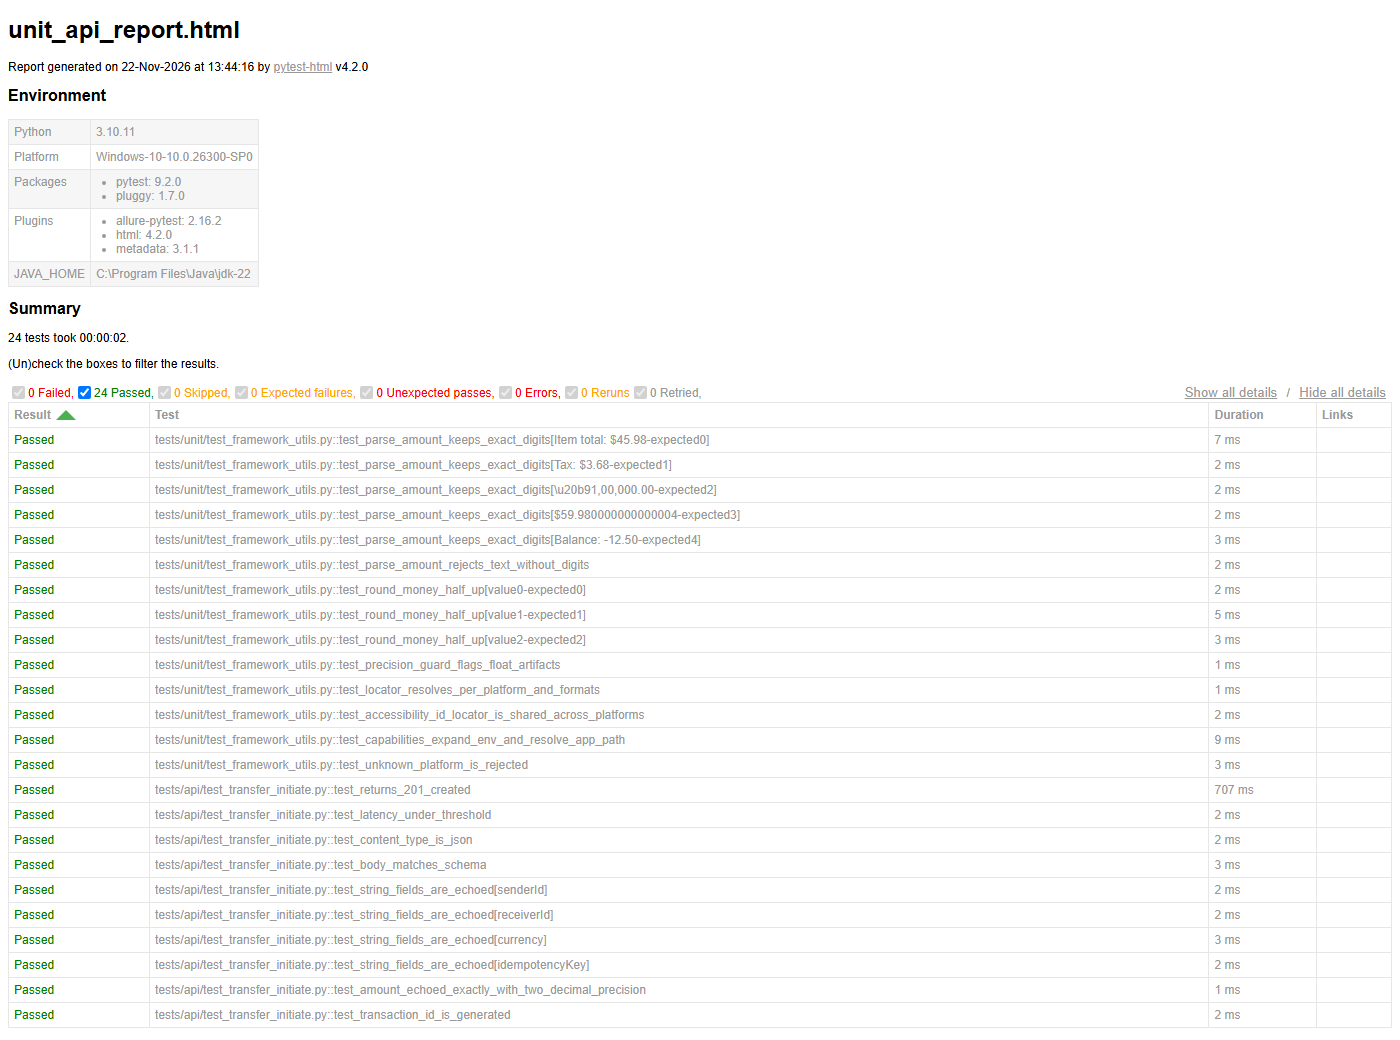
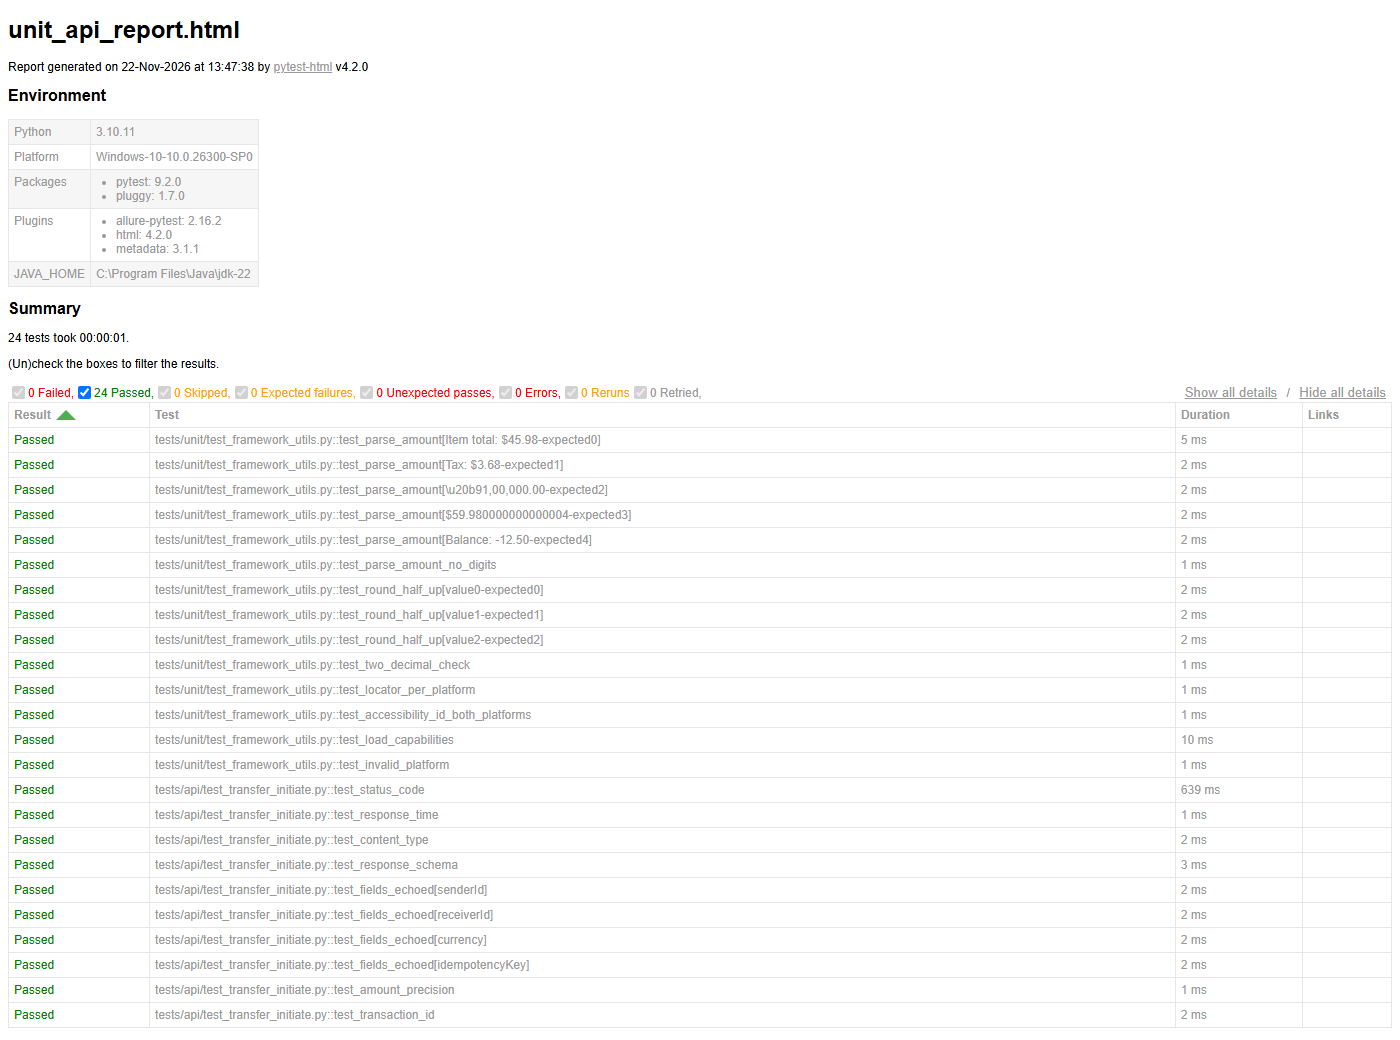
Simplify comments and docstrings

Changed region(s): [[0.2457, 0.4, 0.5221, 0.9846], [0.8293, 0.3692, 0.8907, 0.9846]]

diff --git a/tests/api/test_transfer_initiate.py b/tests/api/test_transfer_initiate.py
@@ -1,8 +1,6 @@
-"""Contract checks for transfer initiation against the public mock endpoint.
+"""API tests for transfer initiate (jsonplaceholder mock).
 
-jsonplaceholder echoes the posted body and adds an integer "id", which stands in for
-the server-generated transaction id. The response body is parsed with Decimal so the
-amount is compared exactly, never as a float.
+The mock returns the request body plus an "id", used here as the transaction id.
 """
 from __future__ import annotations
 
@@ -18,7 +16,7 @@ pytestmark = pytest.mark.api
 
 
 def to_json(payload: dict) -> str:
-    """Serialise Decimal amounts as JSON numbers, refusing any value a float would distort."""
+    """Convert to JSON, Decimal amounts are sent as numbers."""
 
     def encode_decimal(value):
         if isinstance(value, Decimal):
@@ -34,8 +32,7 @@ def to_json(payload: dict) -> str:
 @pytest.fixture(scope="module")
 def response(session, base_url, transfer_data):
     url = f"{base_url}{transfer_data['endpoint']}"
-    # Warm-up: open the keep-alive connection first so the timed POST below measures API
-    # latency, not one-off DNS + TCP + TLS setup (often 300 ms+ on its own).
+    # warm up the connection so response time doesn't include DNS/TLS setup
     session.get(f"{base_url}/posts/1", timeout=10)
     response = session.post(url, data=to_json(transfer_data["transfer_request"]), timeout=10)
     return response
@@ -61,7 +58,7 @@ def test_content_type(response):
 
 
 def test_response_schema(response, schema):
-    body = response.json()  # jsonschema needs native numbers
+    body = response.json()  # jsonschema needs normal numbers
     errors = sorted(Draft202012Validator(schema).iter_errors(body), key=lambda e: e.path)
     assert not errors, "\n".join(f"{list(e.path)}: {e.message}" for e in errors)
 

diff --git a/framework/gestures.py b/framework/gestures.py
@@ -1,8 +1,4 @@
-"""Touch gestures built on W3C pointer actions, which both UiAutomator2 and XCUITest support.
-
-Using W3C actions (instead of mobile: scroll or UiScrollable) keeps one implementation
-for both platforms.
-"""
+"""Swipe/scroll helpers using W3C actions, so the same code works on Android and iOS."""
 from __future__ import annotations
 
 from selenium.common.exceptions import NoSuchElementException
@@ -32,7 +28,7 @@ class Gestures:
         actions.perform()
 
     def swipe_up(self) -> None:
-        """Finger moves up, content scrolls down (reveals items lower in the list)."""
+        """Scrolls the list down."""
         size = self.driver.get_window_size()
         x = size["width"] // 2
         self.swipe(x, int(size["height"] * 0.75), x, int(size["height"] * 0.30))
@@ -43,11 +39,10 @@ class Gestures:
         self.swipe(x, int(size["height"] * 0.30), x, int(size["height"] * 0.75))
 
     def swipe_until_visible(self, target: Locator, list_items: Locator | None = None) -> None:
-        """Swipe up until target is on screen.
+        """Keep swiping until target is visible.
 
-        Stops early and fails if a swipe no longer changes what is visible, which means
-        we hit the end of the list. list_items is any locator whose texts change as
-        the list scrolls (for example item titles); without it we compare page source.
+        Stops when the visible items stop changing (end of list). If list_items is
+        not given, page source is compared instead.
         """
         last_seen = None
         for _ in range(self.max_swipes):

diff --git a/conftest.py b/conftest.py
@@ -1,4 +1,4 @@
-"""Project-wide pytest hooks: CLI options and failure artefacts (screenshot + page source)."""
+"""Global pytest hooks: --platform option and screenshot on failure."""
 from __future__ import annotations
 
 import re
@@ -30,7 +30,7 @@ def pytest_runtest_makereport(item, call):
     outcome = yield
     report = outcome.get_result()
 
-    # Capture on failures in setup or the test body, but only for tests that own a driver.
+    # only for failed UI tests (they have a driver)
     if report.when not in ("setup", "call") or not report.failed:
         return
     driver = item.funcargs.get("driver") if hasattr(item, "funcargs") else None
@@ -46,7 +46,7 @@ def pytest_runtest_makereport(item, call):
     try:
         driver.save_screenshot(str(png_path))
         xml_path.write_text(driver.page_source, encoding="utf-8")
-    except Exception as exc:  # the session may already be dead; never mask the real failure
+    except Exception as exc:  # session might be gone already, don't hide the real error
         report.sections.append(("failure artefacts", f"Could not capture artefacts: {exc}"))
         return
 

diff --git a/pages/base_page.py b/pages/base_page.py
@@ -1,7 +1,4 @@
-"""Base class for all screens. Holds the driver, waits and gestures, and the small set of
-element interactions every page needs. Page objects never assert; they return state
-and the tests decide what is correct.
-"""
+"""Common actions for all pages. No asserts in page objects, only in tests."""
 from __future__ import annotations
 
 from framework.config import Settings
@@ -19,7 +16,6 @@ class BasePage:
         self.waits = Waits(driver, settings.platform, settings.wait_timeout)
         self.gestures = Gestures(driver, self.waits, settings.max_swipes)
 
-    # ---- screen state -------------------------------------------------------------
     def wait_for_page(self):
         if self.SCREEN is not None:
             self.waits.wait_for_visible(self.SCREEN)
@@ -28,7 +24,6 @@ class BasePage:
     def is_displayed(self) -> bool:
         return self.SCREEN is not None and self.waits.is_visible(self.SCREEN)
 
-    # ---- element actions ----------------------------------------------------------
     def click(self, locator: Locator) -> None:
         self.waits.wait_for_clickable(locator).click()
 

diff --git a/framework/locator.py b/framework/locator.py
@@ -1,10 +1,4 @@
-"""Cross-platform locator definition.
-
-A Locator holds one strategy per platform. Page objects declare locators once and the
-correct strategy is resolved at runtime from the active platform, so the same page
-class serves Android and iOS. Templated values (for example a product name) are filled
-with Locator.format(...).
-"""
+"""Locator with an Android and an iOS strategy. Use format() to fill {placeholders}."""
 from __future__ import annotations
 
 from dataclasses import dataclass
@@ -23,11 +17,7 @@ class Locator:
 
     @classmethod
     def accessibility_id(cls, value: str, description: str = "") -> "Locator":
-        """Use when the app exposes the same accessibility id on both platforms.
-
-        The demo app sets accessibilityLabel on Android and testID on iOS to the same
-        value, which Appium maps to the accessibility id strategy on both.
-        """
+        """Same accessibility id on both platforms."""
         strategy = (AppiumBy.ACCESSIBILITY_ID, value)
         return cls(android=strategy, ios=strategy, description=description or value)
 

diff --git a/framework/config.py b/framework/config.py
@@ -1,4 +1,4 @@
-"""Runtime settings. Everything environment-specific is read here and nowhere else."""
+"""Settings and capabilities, read from env vars and config/capabilities.yaml."""
 from __future__ import annotations
 
 import os
@@ -17,7 +17,7 @@ ENV_VAR_REGEX = re.compile(r"\$\{(?P<name>[A-Z0-9_]+)(?::-(?P<default>[^}]*))?\}
 
 
 def _expand_env_vars(value):
-    """Expand ${VAR} and ${VAR:-default} inside YAML string values."""
+    """Replace ${VAR} / ${VAR:-default} with env values."""
     if not isinstance(value, str):
         return value
 
@@ -60,7 +60,7 @@ def load_capabilities(platform: str) -> dict:
         caps_by_platform = yaml.safe_load(f)
     caps = {key: _expand_env_vars(val) for key, val in caps_by_platform[platform].items()}
 
-    # Resolve a relative app path against the project root so tests run from any cwd.
+    # make relative app path absolute
     app = caps.get("appium:app")
     if app and not app.startswith(("http://", "https://", "/", "storage:", "sauce-storage:")):
         caps["appium:app"] = str((PROJECT_ROOT / app).resolve())

diff --git a/framework/driver_factory.py b/framework/driver_factory.py
@@ -1,8 +1,4 @@
-"""Creates an Appium session for the requested platform.
-
-Tests and page objects never import platform-specific option classes. They ask the
-factory for a driver, and the factory picks UiAutomator2 or XCUITest from the settings.
-"""
+"""Starts the Appium driver for Android (UiAutomator2) or iOS (XCUITest)."""
 from __future__ import annotations
 
 import logging
@@ -26,7 +22,6 @@ def create_driver(settings: Settings) -> webdriver.Remote:
     options = PLATFORM_OPTIONS[settings.platform]().load_capabilities(caps)
     logger.info("Starting %s session on %s", settings.platform, settings.appium_server_url)
     driver = webdriver.Remote(settings.appium_server_url, options=options)
-    # Implicit waits are disabled on purpose: mixing them with explicit waits makes
-    # timeouts unpredictable. All synchronisation goes through framework.waits.
+    # no implicit wait, we only use explicit waits (framework/waits.py)
     driver.implicitly_wait(0)
     return driver

diff --git a/framework/money.py b/framework/money.py
@@ -1,9 +1,4 @@
-"""Money handling for assertions.
-
-Amounts are always compared as Decimal, never float. A float comparison can pass or
-fail for the wrong reason (0.1 + 0.2 != 0.3), which is exactly the class of defect a
-payments suite should catch rather than hide.
-"""
+"""Money helpers. Always use Decimal for amounts, never float."""
 from __future__ import annotations
 
 import re
@@ -14,10 +9,9 @@ CENTS = Decimal("0.01")
 
 
 def parse_amount(text: str) -> Decimal:
-    """Extract the amount from UI text such as 'Item total: $45.98' or '₹1,00,000.00'.
+    """Get the amount from text like 'Item total: $45.98' or '₹1,00,000.00'.
 
-    Keeps every digit the UI shows. A value like '59.980000000000004' is returned as is,
-    so a precision bug in the app surfaces as an assertion failure.
+    Digits are kept as shown, so '59.980000000000004' stays as is and fails the test.
     """
     match = AMOUNT_REGEX.search(text or "")
     if not match:

diff --git a/pages/products_page.py b/pages/products_page.py
@@ -18,8 +18,7 @@ class ProductsPage(BasePage):
         return ProductDetailPage(self.driver, self.settings).wait_for_page()
 
     def add_product_to_cart(self, name: str) -> "ProductsPage":
-        """Adds via the detail screen. This avoids locating a button inside a specific
-        list card, which needs different relative locators per platform."""
+        """Add from the detail page (simpler than finding the button inside the list card)."""
         self.open_product(name).add_to_cart().go_back()
         return self
 
@@ -46,7 +45,7 @@ class ProductDetailPage(BasePage):
     def add_to_cart(self) -> "ProductDetailPage":
         self.scroll_to(D.ADD_TO_CART)
         self.click(D.ADD_TO_CART)
-        self.waits.wait_for_visible(D.REMOVE)  # button flips to REMOVE once the cart is updated
+        self.waits.wait_for_visible(D.REMOVE)  # button changes to REMOVE when added
         return self
 
     def go_back(self) -> ProductsPage:

diff --git a/framework/waits.py b/framework/waits.py
@@ -1,8 +1,4 @@
-"""Explicit wait helpers. This is the only place the suite waits for anything.
-
-There are no time.sleep() calls anywhere in the project. Every wait polls for a
-concrete condition and fails with a readable message naming the locator.
-"""
+"""Explicit waits. No time.sleep() in this project."""
 from __future__ import annotations
 
 from selenium.common.exceptions import TimeoutException
@@ -44,6 +40,6 @@ class Waits:
             raise TimeoutException(f"No elements found: {locator} using {strategy}") from exc
 
     def is_visible(self, locator: Locator) -> bool:
-        """Non-blocking check, used inside scroll loops."""
+        """Checks right now, no waiting."""
         elements = self.driver.find_elements(*locator.resolve(self.platform))
         return any(el.is_displayed() for el in elements)

diff --git a/tests/unit/test_framework_utils.py b/tests/unit/test_framework_utils.py
@@ -1,4 +1,4 @@
-"""Fast checks for framework helpers. No device or network needed."""
+"""Unit tests for framework helpers (no device needed)."""
 from __future__ import annotations
 
 from decimal import Decimal
@@ -69,7 +69,7 @@ def test_load_capabilities(monkeypatch):
     caps = load_capabilities("android")
     assert caps["appium:deviceName"] == "Pixel_8_API_34"
     assert caps["appium:automationName"] == "UiAutomator2"
-    # Compare path parts, not raw strings, so the check holds on Windows (\) and POSIX (/).
+    # compare path parts so it works on Windows and Linux/Mac
     assert Path(caps["appium:app"]).parts[-2:] == ("apps", "Android.SauceLabs.Mobile.Sample.app.2.7.1.apk")
 
 

diff --git a/locators/login_locators.py b/locators/login_locators.py
@@ -8,7 +8,7 @@ class LoginLocators:
     PASSWORD = Locator.accessibility_id("test-Password", "Password input")
     LOGIN_BUTTON = Locator.accessibility_id("test-LOGIN", "Login button")
 
-    # The error container carries the test id; the message is its child text node.
+    # test id is on the container, text is in the child
     ERROR_MESSAGE = Locator(
         android=(AppiumBy.XPATH, '//*[@content-desc="test-Error message"]//android.widget.TextView'),
         ios=(AppiumBy.IOS_CLASS_CHAIN, '**/XCUIElementTypeOther[`name == "test-Error message"`]/**/XCUIElementTypeStaticText'),
